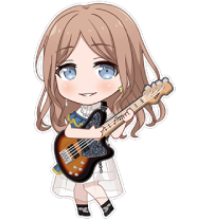
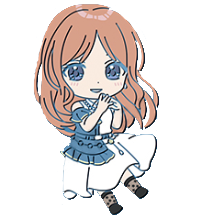
修复bug,更新美术，新增遗物，平衡性修复

diff --git a/src/main/java/com/qingmu/sakiko/cards/music/Expose_RAS.java b/src/main/java/com/qingmu/sakiko/cards/music/Expose_RAS.java
@@ -1,6 +1,10 @@
 package com.qingmu.sakiko.cards.music;
 
+import com.megacrit.cardcrawl.actions.AbstractGameAction;
+import com.megacrit.cardcrawl.actions.common.PlayTopCardAction;
+import com.megacrit.cardcrawl.cards.AbstractCard;
 import com.megacrit.cardcrawl.core.CardCrawlGame;
+import com.megacrit.cardcrawl.dungeons.AbstractDungeon;
 import com.megacrit.cardcrawl.localization.CardStrings;
 import com.qingmu.sakiko.patch.SakikoEnum;
 import com.qingmu.sakiko.utils.ModNameHelper;
@@ -14,22 +18,62 @@ public class Expose_RAS extends AbstractMusic {
 
     private static final String NAME = CARD_STRINGS.NAME;
     private static final String DESCRIPTION = CARD_STRINGS.DESCRIPTION;
+    private static final String[] EXTENDED_DESCRIPTION = CARD_STRINGS.EXTENDED_DESCRIPTION;
 
     private static final CardRarity RARITY = SakikoEnum.CardRarityEnum.MUSIC_RARE;
     private static final CardTarget TARGET = CardTarget.NONE;
 
+    private int count = 0;
+
     public Expose_RAS() {
         super(ID, NAME, IMG_PATH, DESCRIPTION, RARITY, TARGET);
-        this.enchanted = 1;
+        this.enchanted = 3;
+        this.baseMagicNumber = 3;
     }
 
     @Override
+    public void applyAmount() {
+        this.rawDescription = DESCRIPTION + String.format(EXTENDED_DESCRIPTION[0], this.amount);
+        this.initializeDescription();
+    }
+
+    @Override
+    public void triggerInBufferPlayCard(AbstractCard card) {
+        this.count++;
+        if (this.count >= (this.baseMagicNumber < 0 ? this.baseMagicNumber : this.magicNumber)) {
+            this.amount++;
+            this.count = 0;
+        }
+    }
+
+
+    @Override
     public void upgrade() {
+        if (!this.upgraded) {
+            this.upgradeName();
+        }
     }
 
 
     @Override
     public void play() {
-
+        if (this.upgraded) {
+            this.addToTop(new AbstractGameAction() {
+                public void update() {
+                    addToBot(new PlayTopCardAction(
+                            (AbstractDungeon.getCurrRoom()).monsters.getRandomMonster(null, true, AbstractDungeon.cardRandomRng), false));
+                    this.isDone = true;
+                }
+            });
+        }
+        for (int i = 0; i < this.amount; i++) {
+            this.addToTop(new AbstractGameAction() {
+                public void update() {
+                    addToBot(new PlayTopCardAction(
+                            (AbstractDungeon.getCurrRoom()).monsters.getRandomMonster(null, true, AbstractDungeon.cardRandomRng), false));
+                    this.isDone = true;
+                }
+            });
+        }
     }
 }

diff --git a/src/main/java/com/qingmu/sakiko/cards/music/A2Z_PP.java b/src/main/java/com/qingmu/sakiko/cards/music/A2Z_PP.java
@@ -1,7 +1,10 @@
 package com.qingmu.sakiko.cards.music;
 
+import com.megacrit.cardcrawl.actions.common.ApplyPowerAction;
+import com.megacrit.cardcrawl.cards.AbstractCard;
 import com.megacrit.cardcrawl.core.CardCrawlGame;
 import com.megacrit.cardcrawl.localization.CardStrings;
+import com.megacrit.cardcrawl.powers.watcher.MantraPower;
 import com.qingmu.sakiko.patch.SakikoEnum;
 import com.qingmu.sakiko.utils.ModNameHelper;
 
@@ -14,21 +17,49 @@ public class A2Z_PP extends AbstractMusic {
 
     private static final String NAME = CARD_STRINGS.NAME;
     private static final String DESCRIPTION = CARD_STRINGS.DESCRIPTION;
+    private static final String[] EXTENDED_DESCRIPTION = CARD_STRINGS.EXTENDED_DESCRIPTION;
+
 
     private static final CardRarity RARITY = SakikoEnum.CardRarityEnum.MUSIC_RARE;
     private static final CardTarget TARGET = CardTarget.NONE;
 
+    private int count = 0;
+
     public A2Z_PP() {
         super(ID, NAME, IMG_PATH, DESCRIPTION, RARITY, TARGET);
         this.enchanted = 1;
+        this.baseMagicNumber = 3;
     }
 
     @Override
+    public void applyAmount() {
+        this.rawDescription = DESCRIPTION + String.format(EXTENDED_DESCRIPTION[0], this.amount);
+        this.initializeDescription();
+    }
+
+    @Override
+    public void triggerInBufferPlayCard(AbstractCard card) {
+        this.count++;
+        if (this.count >= (this.baseMagicNumber < 0 ? this.baseMagicNumber : this.magicNumber)) {
+            this.amount++;
+            this.count = 0;
+        }
+    }
+
+
+    @Override
     public void upgrade() {
+        if (!this.upgraded) {
+            this.upgradeName();
+            this.upgradeMagicNumber(-1);
+        }
     }
 
     @Override
     public void play() {
+        this.addToTop(new ApplyPowerAction(this.music_source, this.music_source, new MantraPower(this.music_source, this.amount)));
 
+        this.rawDescription = DESCRIPTION;
+        this.initializeDescription();
     }
 }

diff --git a/src/main/java/com/qingmu/sakiko/cards/music/KamisamaBaka.java b/src/main/java/com/qingmu/sakiko/cards/music/KamisamaBaka.java
@@ -1,7 +1,10 @@
 package com.qingmu.sakiko.cards.music;
 
+import com.megacrit.cardcrawl.actions.common.ApplyPowerAction;
+import com.megacrit.cardcrawl.actions.watcher.ChangeStanceAction;
 import com.megacrit.cardcrawl.core.CardCrawlGame;
 import com.megacrit.cardcrawl.localization.CardStrings;
+import com.megacrit.cardcrawl.powers.watcher.EndTurnDeathPower;
 import com.qingmu.sakiko.patch.SakikoEnum;
 import com.qingmu.sakiko.utils.ModNameHelper;
 
@@ -14,6 +17,7 @@ public class KamisamaBaka extends AbstractMusic {
 
     private static final String NAME = CARD_STRINGS.NAME;
     private static final String DESCRIPTION = CARD_STRINGS.DESCRIPTION;
+    private static final String UPGRADE_DESCRIPTION = CARD_STRINGS.UPGRADE_DESCRIPTION;
 
     private static final CardRarity RARITY = SakikoEnum.CardRarityEnum.MUSIC_RARE;
     private static final CardTarget TARGET = CardTarget.NONE;
@@ -21,15 +25,23 @@ public class KamisamaBaka extends AbstractMusic {
     public KamisamaBaka() {
         super(ID, NAME, IMG_PATH, DESCRIPTION, RARITY, TARGET);
         this.enchanted = 1;
+        this.exhaust = true;
     }
 
     @Override
     public void upgrade() {
+        if (!this.upgraded) {
+            this.upgradeName();
+            this.rawDescription = UPGRADE_DESCRIPTION;
+            this.exhaust = false;
+            this.initializeDescription();
+        }
     }
 
 
     @Override
     public void play() {
-
+        this.addToTop(new ApplyPowerAction(this.music_source, this.music_source, new EndTurnDeathPower(this.music_source)));
+        this.addToTop(new ChangeStanceAction("Divinity"));
     }
 }

diff --git a/src/main/java/com/qingmu/sakiko/cards/music/ChoirSChoir.java b/src/main/java/com/qingmu/sakiko/cards/music/ChoirSChoir.java
@@ -1,8 +1,13 @@
 package com.qingmu.sakiko.cards.music;
 
+import com.badlogic.gdx.graphics.Color;
+import com.megacrit.cardcrawl.actions.animations.VFXAction;
+import com.megacrit.cardcrawl.actions.utility.WaitAction;
 import com.megacrit.cardcrawl.actions.watcher.JudgementAction;
 import com.megacrit.cardcrawl.core.CardCrawlGame;
 import com.megacrit.cardcrawl.localization.CardStrings;
+import com.megacrit.cardcrawl.vfx.combat.GiantTextEffect;
+import com.megacrit.cardcrawl.vfx.combat.WeightyImpactEffect;
 import com.qingmu.sakiko.patch.SakikoEnum;
 import com.qingmu.sakiko.utils.ModNameHelper;
 
@@ -39,6 +44,10 @@ public class ChoirSChoir extends AbstractMusic {
     public void play() {
         if (this.music_target != null && !this.music_target.isDeadOrEscaped()){
             this.addToTop(new JudgementAction(this.music_target, this.magicNumber < 0 ? this.baseMagicNumber : this.magicNumber));
+            this.addToTop(new VFXAction(new GiantTextEffect(this.music_target.hb.cX, this.music_target.hb.cY)));
+            this.addToTop(new WaitAction(0.8F));
+            this.addToTop(new VFXAction(new WeightyImpactEffect(this.music_target.hb.cX, this.music_target.hb.cY, Color.GOLD.cpy())));
+
         }
     }
 }

diff --git a/src/main/java/com/qingmu/sakiko/relics/Speaker.java b/src/main/java/com/qingmu/sakiko/relics/Speaker.java
@@ -1,0 +1,33 @@
+package com.qingmu.sakiko.relics;
+
+import basemod.abstracts.CustomRelic;
+import com.megacrit.cardcrawl.dungeons.AbstractDungeon;
+import com.megacrit.cardcrawl.helpers.ImageMaster;
+import com.qingmu.sakiko.characters.TogawaSakiko;
+import com.qingmu.sakiko.utils.ModNameHelper;
+
+public class Speaker extends CustomRelic {
+
+    // 遗物ID
+    public static final String ID = ModNameHelper.make(Speaker.class.getSimpleName());
+    // 图片路径
+    private static final String IMG_PATH = "SakikoModResources/img/relics/Speaker.png";
+    // 遗物类型
+    private static final RelicTier RELIC_TIER = RelicTier.UNCOMMON;
+    // 点击音效
+    private static final LandingSound LANDING_SOUND = LandingSound.FLAT;
+
+    public Speaker() {
+        super(ID, ImageMaster.loadImage(IMG_PATH), RELIC_TIER, LANDING_SOUND);
+    }
+
+    @Override
+    public String getUpdatedDescription() {
+        return this.DESCRIPTIONS[0];
+    }
+
+    @Override
+    public boolean canSpawn() {
+        return AbstractDungeon.player instanceof TogawaSakiko;
+    }
+}

diff --git a/src/main/java/com/qingmu/sakiko/patch/action/PlayTopCardActionPatch.java b/src/main/java/com/qingmu/sakiko/patch/action/PlayTopCardActionPatch.java
@@ -1,0 +1,20 @@
+package com.qingmu.sakiko.patch.action;
+
+import com.evacipated.cardcrawl.modthespire.lib.SpirePatch;
+import com.evacipated.cardcrawl.modthespire.lib.SpireReturn;
+import com.megacrit.cardcrawl.actions.common.PlayTopCardAction;
+import com.megacrit.cardcrawl.dungeons.AbstractDungeon;
+import com.qingmu.sakiko.patch.SakikoEnum;
+
+@SpirePatch(clz = PlayTopCardAction.class, method = "update")
+public class PlayTopCardActionPatch {
+
+    // 修复白月光卡乱战
+    public static SpireReturn<Void> Prefix(PlayTopCardAction __instance) {
+        long count = AbstractDungeon.player.discardPile.group.stream().filter(card -> card.hasTag(SakikoEnum.CardTagEnum.MOONLIGHT)).count();
+        if (AbstractDungeon.player.drawPile.size() + AbstractDungeon.player.discardPile.size() - count <= 0) {
+            __instance.isDone = true;
+            return SpireReturn.Return();
+        }else return SpireReturn.Continue();
+    }
+}

diff --git a/src/main/java/com/qingmu/sakiko/powers/MusicalNotePower.java b/src/main/java/com/qingmu/sakiko/powers/MusicalNotePower.java
@@ -11,6 +11,7 @@ import com.megacrit.cardcrawl.powers.AbstractPower;
 import com.qingmu.sakiko.action.DrawMusicAction;
 import com.qingmu.sakiko.cards.music.AbstractMusic;
 import com.qingmu.sakiko.patch.filed.MusicBattleFiledPatch;
+import com.qingmu.sakiko.relics.Speaker;
 import com.qingmu.sakiko.utils.ModNameHelper;
 
 public class MusicalNotePower extends AbstractPower {
@@ -59,7 +60,11 @@ public class MusicalNotePower extends AbstractPower {
     @Override
     public void atEndOfTurn(boolean isPlayer) {
         if (isPlayer) {
-            if (this.amount >= 24) this.addToBot(new ReducePowerAction(this.owner, this.owner, this, this.amount / 2));
+            if (AbstractDungeon.player.hasRelic(Speaker.ID)) {
+                AbstractDungeon.player.getRelic(Speaker.ID).flash();
+            } else {
+                this.addToBot(new ReducePowerAction(this.owner, this.owner, this, this.amount / 2));
+            }
         }
     }
 

diff --git a/src/main/java/com/qingmu/sakiko/cards/music/Louder_R.java b/src/main/java/com/qingmu/sakiko/cards/music/Louder_R.java
@@ -1,5 +1,6 @@
 package com.qingmu.sakiko.cards.music;
 
+import com.megacrit.cardcrawl.actions.common.ExhaustAction;
 import com.megacrit.cardcrawl.core.CardCrawlGame;
 import com.megacrit.cardcrawl.localization.CardStrings;
 import com.qingmu.sakiko.patch.SakikoEnum;
@@ -20,16 +21,22 @@ public class Louder_R extends AbstractMusic {
 
     public Louder_R() {
         super(ID, NAME, IMG_PATH, DESCRIPTION, RARITY, TARGET);
-        this.enchanted = 1;
+        this.enchanted = 2;
+        this.baseMagicNumber = 1;
     }
 
     @Override
     public void upgrade() {
+        this.upgradeMagicNumber(1);
+        ++this.timesUpgraded;
+        this.upgraded = true;
+        this.name = NAME + "+" + this.timesUpgraded;
+        this.initializeTitle();
     }
 
 
     @Override
     public void play() {
-
+        this.addToTop(new ExhaustAction(this.magicNumber < 0 ? this.baseMagicNumber : this.magicNumber, false, true, true));
     }
 }

diff --git a/src/main/java/com/qingmu/sakiko/cards/sakiko/Stud.java b/src/main/java/com/qingmu/sakiko/cards/sakiko/Stud.java
@@ -20,6 +20,7 @@ public class Stud extends CustomCard {
 
     private static final String NAME = CARD_STRINGS.NAME;
     private static final String DESCRIPTION = CARD_STRINGS.DESCRIPTION;
+    private static final String UPGRADE_DESCRIPTION = CARD_STRINGS.UPGRADE_DESCRIPTION;
     private static final int COST = 1;
 
     private static final CardType TYPE = CardType.SKILL;
@@ -37,12 +38,14 @@ public class Stud extends CustomCard {
     public void upgrade() {
         if (!this.upgraded) {
             this.upgradeName();
-            this.upgradeBaseCost(0);
+            this.cardsToPreview.upgrade();
+            this.rawDescription = UPGRADE_DESCRIPTION;
+            this.initializeDescription();
         }
     }
 
     @Override
     public void use(AbstractPlayer p, AbstractMonster m) {
-        this.addToBot(new StudAction());
+        this.addToBot(new StudAction(this.upgraded));
     }
 }

diff --git a/src/main/java/com/qingmu/sakiko/action/ObliviousAction.java b/src/main/java/com/qingmu/sakiko/action/ObliviousAction.java
@@ -41,7 +41,9 @@ public class ObliviousAction extends AbstractGameAction {
                     tmp.calculateCardDamage(m);
                     tmp.purgeOnUse = true;
                     AbstractDungeon.actionManager.addCardQueueItem(new CardQueueItem(tmp, m, card.energyOnUse, true, true), true);
-                    groups.get(card).moveToExhaustPile(card);
+                    if (!card.hasTag(SakikoEnum.CardTagEnum.MUSIC_POWER) || !(card.type == AbstractCard.CardType.POWER)){
+                        groups.get(card).moveToExhaustPile(card);
+                    }
                 }
             }, this.amount, true, (card -> !card.hasTag(SakikoEnum.CardTagEnum.OBLIVIOUS)), CardGroup.CardGroupType.HAND, CardGroup.CardGroupType.DISCARD_PILE));
 

diff --git a/src/main/java/com/qingmu/sakiko/action/StudAction.java b/src/main/java/com/qingmu/sakiko/action/StudAction.java
@@ -8,12 +8,20 @@ import com.qingmu.sakiko.cards.tmpcard.Fantasy;
 
 public class StudAction extends AbstractGameAction {
 
+    private boolean isUpgrade;
+
+    public StudAction(boolean isUpgrade) {
+        this.isUpgrade = isUpgrade;
+    }
 
     @Override
     public void update() {
         int theSize = AbstractDungeon.player.hand.size();
         Fantasy fantasy = new Fantasy();
         fantasy.setCostForTurn(0);
+        if (this.isUpgrade){
+            fantasy.upgrade();
+        }
         addToTop(new MakeTempCardInHandAction(fantasy, theSize));
         addToTop(new DiscardAction(AbstractDungeon.player,AbstractDungeon.player, theSize, false));
         this.isDone = true;

diff --git a/src/main/java/com/qingmu/sakiko/cards/sakiko/FearNoForgotten.java b/src/main/java/com/qingmu/sakiko/cards/sakiko/FearNoForgotten.java
@@ -6,6 +6,7 @@ import com.megacrit.cardcrawl.core.CardCrawlGame;
 import com.megacrit.cardcrawl.localization.CardStrings;
 import com.megacrit.cardcrawl.monsters.AbstractMonster;
 import com.qingmu.sakiko.action.ObliviousAction;
+import com.qingmu.sakiko.patch.SakikoEnum;
 import com.qingmu.sakiko.utils.ModNameHelper;
 
 import static com.qingmu.sakiko.patch.SakikoEnum.CharacterEnum.QINGMU_SAKIKO_CARD;
@@ -32,6 +33,7 @@ public class FearNoForgotten extends CustomCard {
         this.exhaust = true;
         this.isInnate = true;
         this.baseMagicNumber = 1;
+        this.tags.add(SakikoEnum.CardTagEnum.OBLIVIOUS);
     }
 
     @Override
